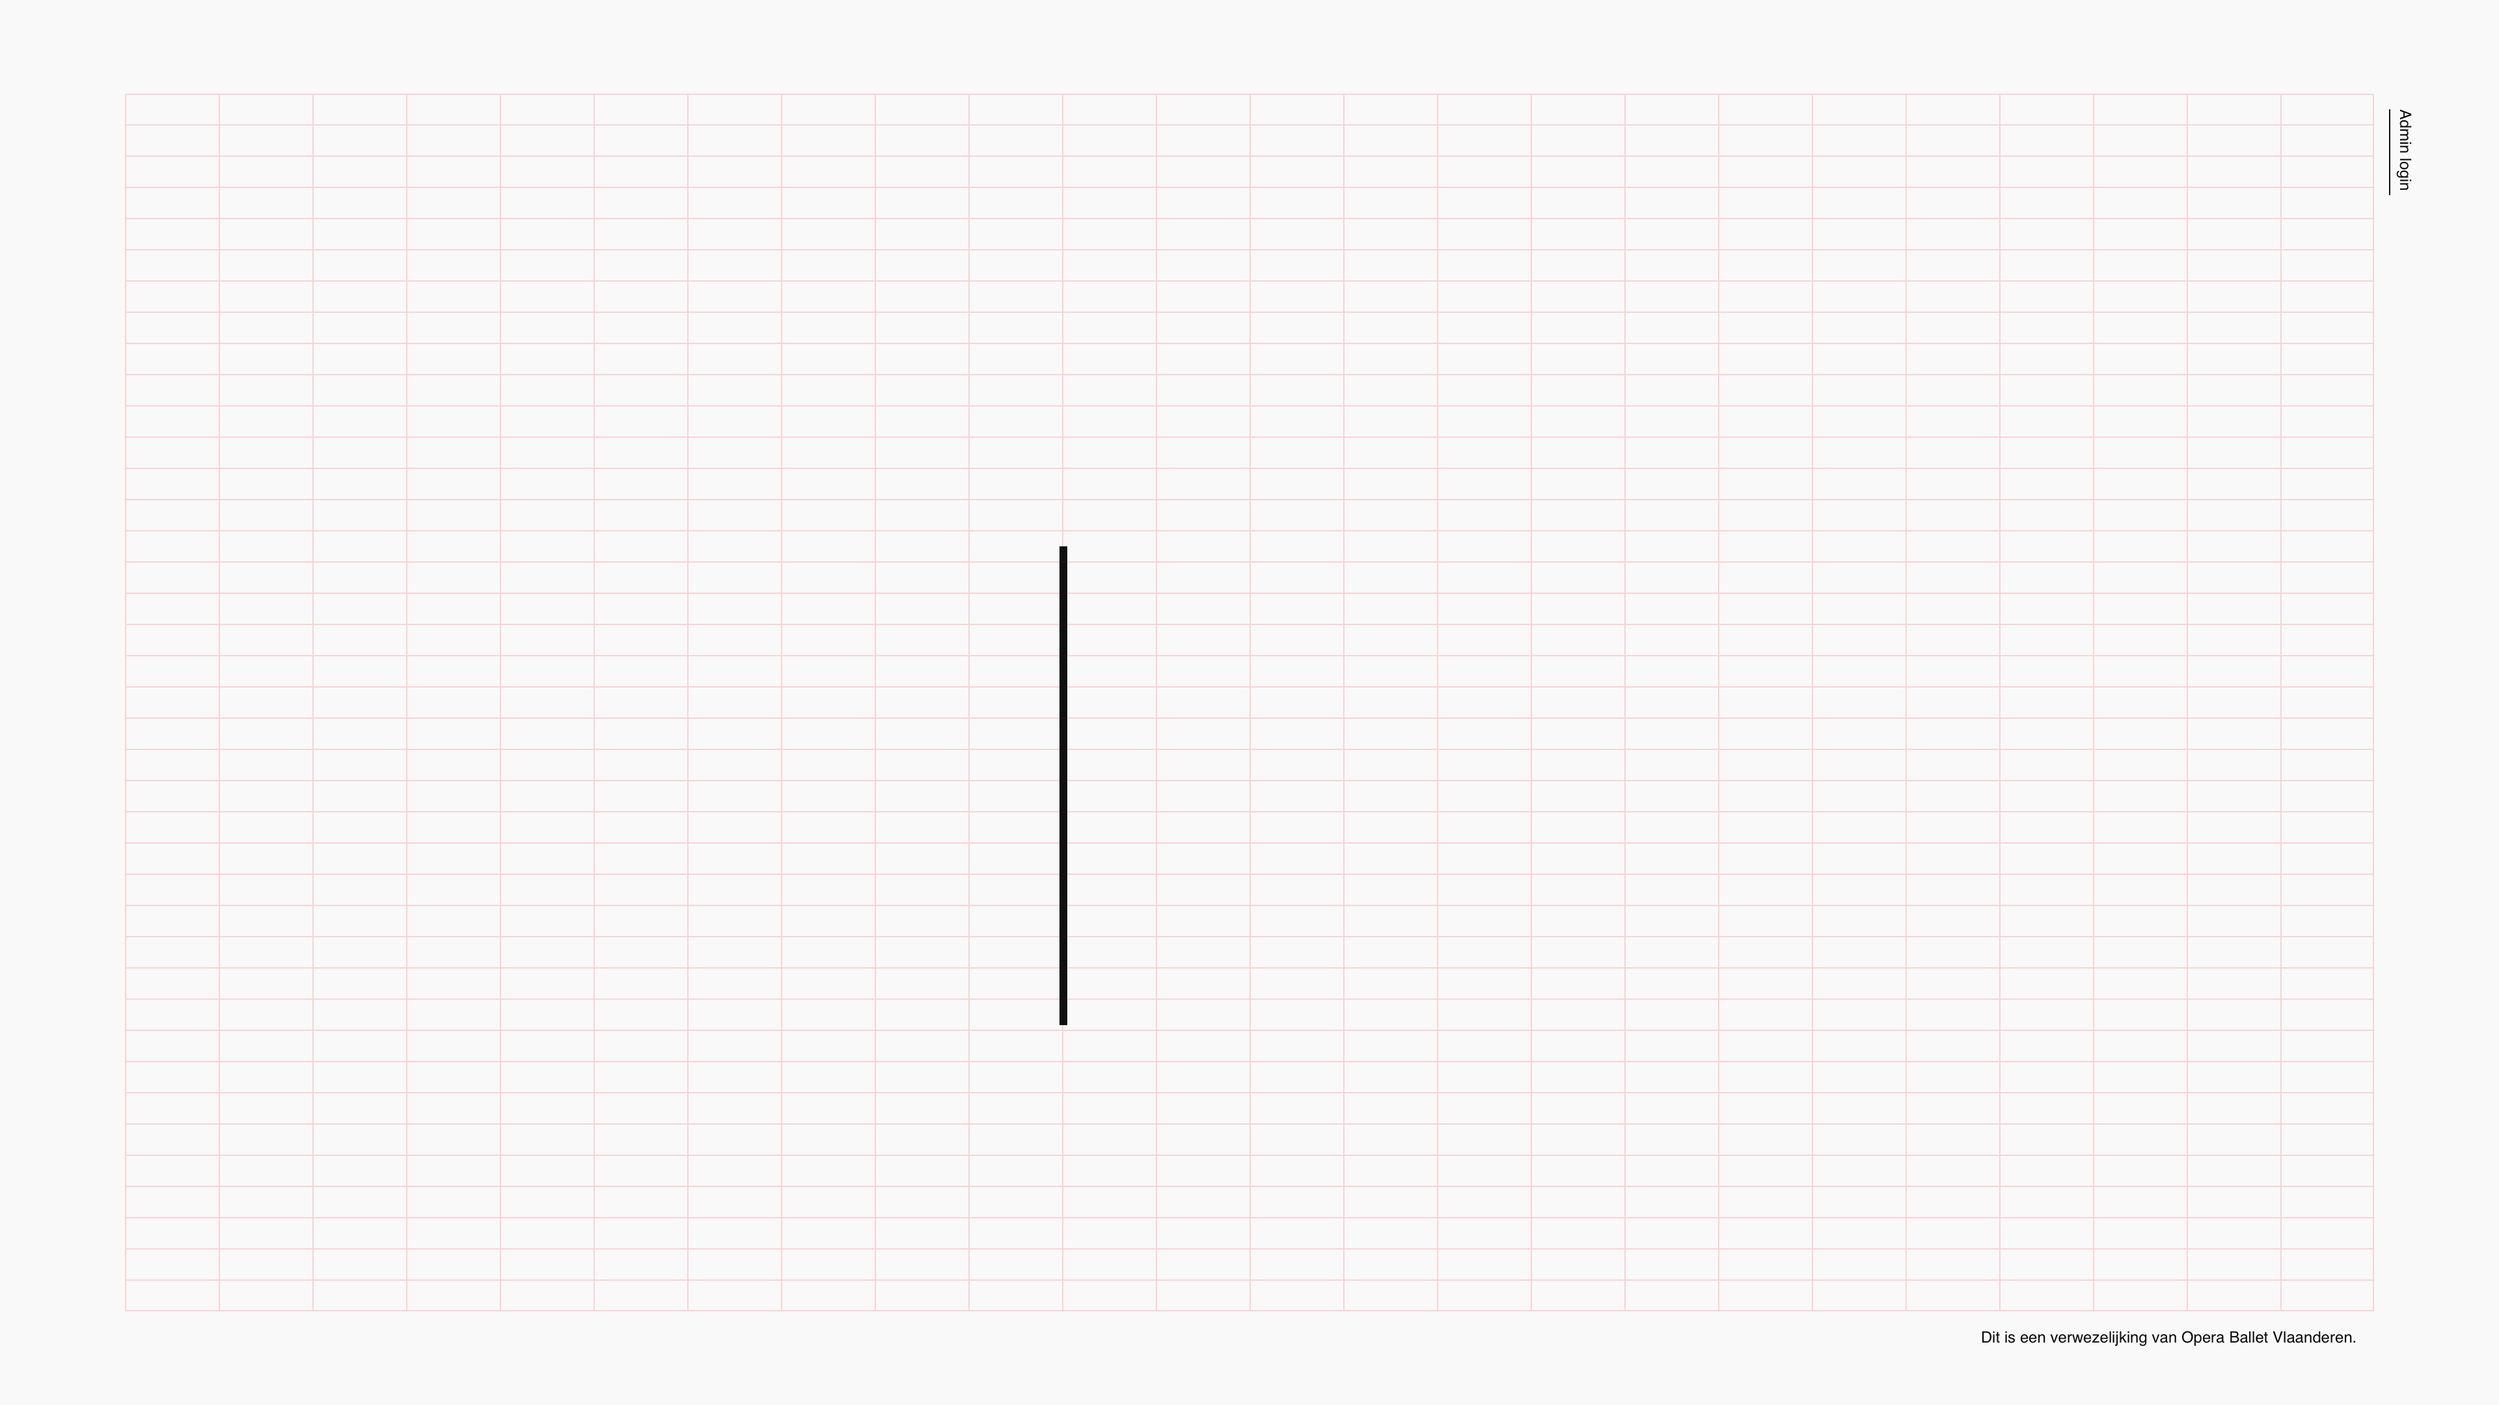
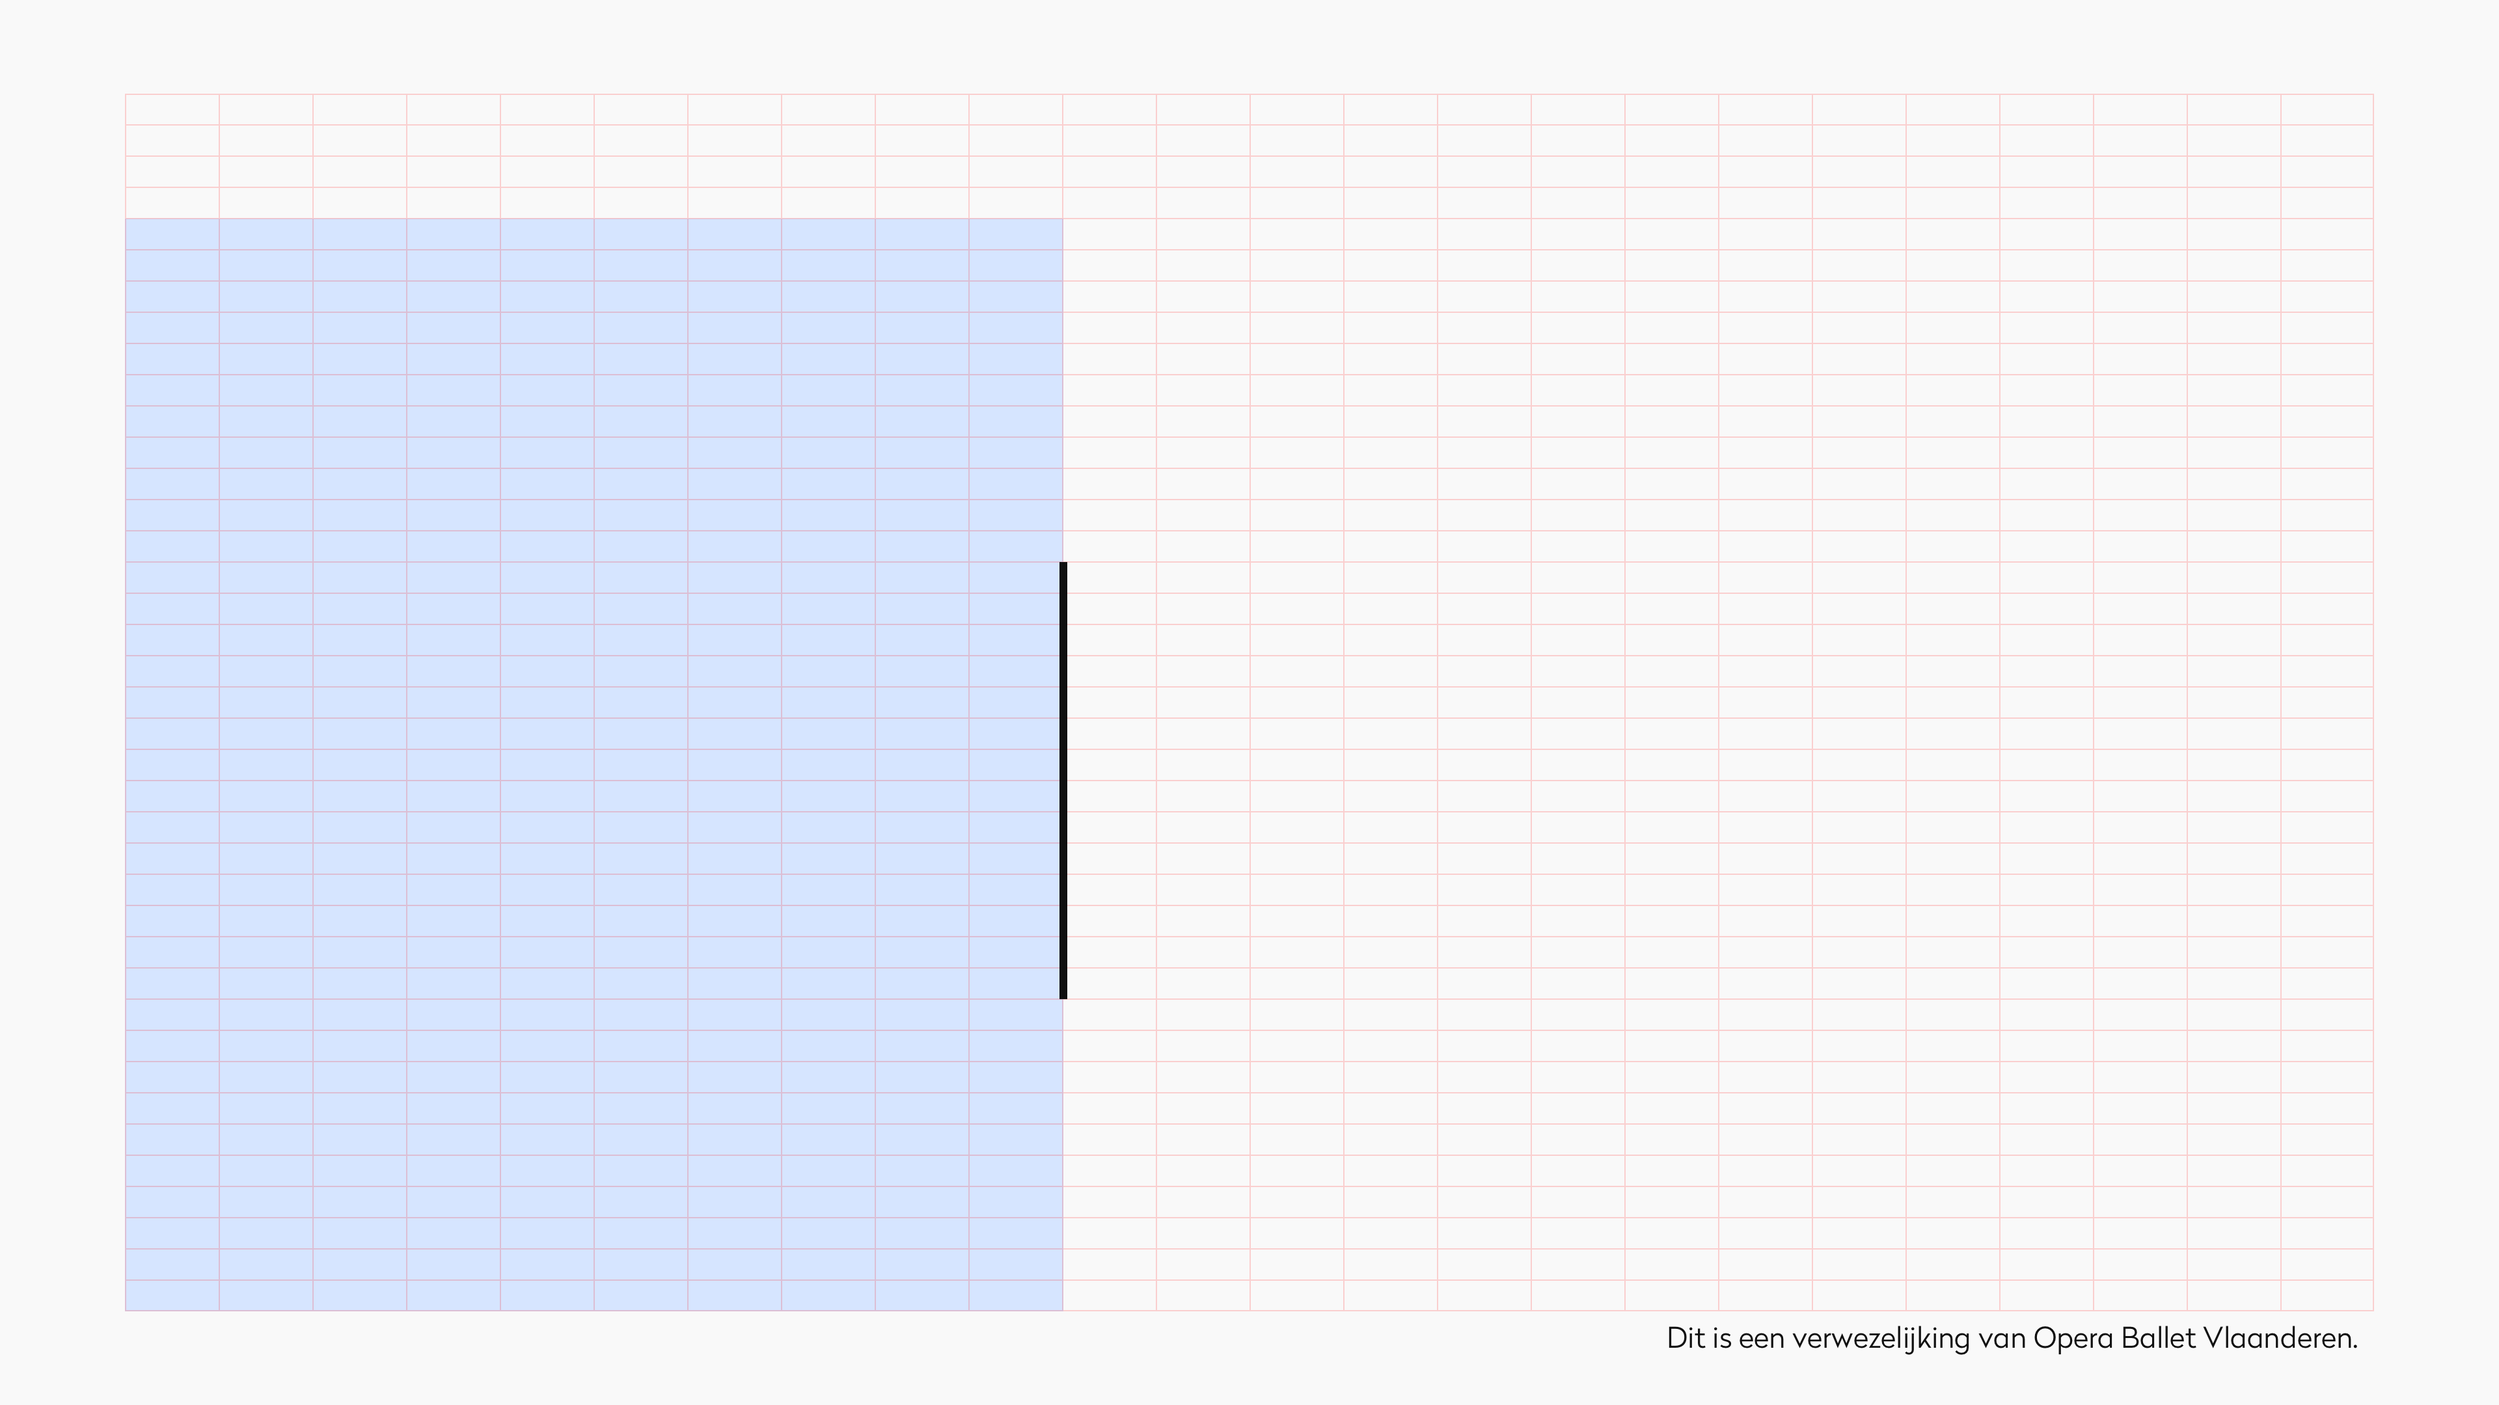
questions three

Changed region(s): [[0.0312, 0.1551, 0.4375, 0.9306], [0.6875, 0.9306, 0.9375, 0.9616]]

diff --git a/client/src/three/Questions.js b/client/src/three/Questions.js
@@ -1,5 +1,5 @@
 import * as THREE from "three";
-import { BACKGROUND_COLORS, FONTS, WORLD_POSITION } from "../constants";
+import { BACKGROUND_COLORS, FONTS, WORLD_POSITION, ROUTES } from "../constants";
 import Canary from "./Canary";
 
 class Questions {
@@ -7,12 +7,12 @@ class Questions {
   questions = [];
   answers = [];
   loaded = false;
+  questionIndex = 0;
 
   load = that => {
     this.elements = [];
     this.that = that;
     that.movementFreedom = 100;
-    this.that.cameraRubberBandingActive = true;
 
     this.that.questionStore.findAll().then(questions => {
       this.questions = questions;
@@ -48,11 +48,11 @@ class Questions {
     this.submit.style.position = `relative`;
 
     this.canary.createPng(that, `assets/img/ontdek_wie_jij_bent.png`, -30, 60, WORLD_POSITION.questions - 300, 836 / 5.2, 241 / 4, 16);
-    this.canary.createPng(that, `assets/img/ontdek_wie_jij_bent_blauwe_rechthoek.png`, -130, -10, WORLD_POSITION.questions - 390, 721 / 4.1, 840 / 3.7, 16);
+    this.canary.createPng(that, `assets/img/admin_login.png`, 230, 110, WORLD_POSITION.questions - 390, 40 / 4.1, 122 / 3.7, 16, `admin`);
     this.canary.createPng(that, `assets/img/logo.png`, -18, -57, WORLD_POSITION.questions - 250, 440 / 5.2, 194 / 5.2, 16);
-    this.canary.createPng(that, `assets/img/ontdek_wie_jij_bent_intro_1.png`, -102, -19, WORLD_POSITION.questions - 330, 576 / 5.1, 119 / 6, 16);
-    this.canary.createPng(that, `assets/img/ontdek_wie_jij_bent_intro_2.png`, 42, 16, WORLD_POSITION.questions - 330, 576 / 5.1, 62 / 6, 16);
-    this.canary.createPng(that, `assets/img/pikachu.jpg`, 124, -50, WORLD_POSITION.questions - 330, 576 / 6, 576 / 6, 16);
+    this.canary.createPng(that, `assets/img/ontdek_wie_jij_bent_intro_1.png`, -103, -19, WORLD_POSITION.questions - 330, 576 / 5.1, 119 / 6, 16);
+    this.canary.createPng(that, `assets/img/ontdek_wie_jij_bent_intro_2.png`, 50, 12, WORLD_POSITION.questions - 330, 664 / 5.1, 78 / 6, 16);
+    this.canary.createPng(that, `assets/img/rectangle.png`, 123, -54, WORLD_POSITION.questions - 330, 440 / 4.6, 387 / 4.6, 16);
     this.canary.createPng(that, `assets/img/ontdek_wie_jij_bent_button.png`, -19, -65, WORLD_POSITION.questions - 300, 90, 18, 16, `start`);
     this.canary.createPng(that, `assets/img/a_START-1.png`, 0, 0, WORLD_POSITION.questions - 400, 500, 300, 16);
     //this.canary.createText(that, FONTS.helvetacaLight, 0xff6690, `Pikachu`, 0, 30, WORLD_POSITION.questions - 300, 50);
@@ -69,95 +69,48 @@ class Questions {
     this.questions.forEach((question, index) => {
       this.canary.createPng(
         this.that,
-        `assets/img/ontdek_wie_jij_bent.png`,
+        `assets/img/vraag.png`,
         question.location.x - 30,
         question.location.y + 60,
-        WORLD_POSITION.questions - 300 - question.location.z,
+        WORLD_POSITION.questions - question.location.z - 300,
         836 / 5.2,
         241 / 4,
         16
       );
       this.canary.createPng(
         this.that,
-        `assets/img/ontdek_wie_jij_bent_blauwe_rechthoek.png`,
+        `assets/img/terug_naar_begin.png`,
         question.location.x - 130,
         question.location.y - 10,
-        WORLD_POSITION.questions - 390 - question.location.z,
-        721 / 4.1,
-        840 / 3.7,
-        16
-      );
-      this.canary.createPng(
-        this.that,
-        `assets/img/logo.png`,
-        -18 - question.location.x,
-        -57 - question.location.y,
-        WORLD_POSITION.questions - 250 - question.location.z,
-        440 / 5.2,
-        194 / 5.2,
-        16
-      );
-      this.canary.createPng(
-        this.that,
-        `assets/img/ontdek_wie_jij_bent_intro_1.png`,
-        -102 - question.location.x,
-        -19 - question.location.y,
-        WORLD_POSITION.questions - 330 - question.location.z,
-        576 / 5.1,
-        119 / 6,
-        16
-      );
-      this.canary.createPng(
-        this.that,
-        `assets/img/ontdek_wie_jij_bent_intro_2.png`,
-        42 - question.location.x,
-        16 - question.location.y,
-        WORLD_POSITION.questions - 330 - question.location.z,
-        576 / 5.1,
-        62 / 6,
-        16
-      );
-      this.canary.createPng(
-        this.that,
-        `assets/img/pikachu.jpg`,
-        124 - question.location.x,
-        -50 - question.location.y,
-        WORLD_POSITION.questions - 330 - question.location.z,
-        576 / 6,
-        576 / 6,
-        16
-      );
-      this.canary.createPng(
-        this.that,
-        `assets/img/ontdek_wie_jij_bent_button.png`,
-        -19 - question.location.x,
-        -65 - question.location.y,
-        WORLD_POSITION.questions - 300 - question.location.z,
-        90,
-        18,
+        WORLD_POSITION.questions - question.location.z - 390,
+        242 / 4.1,
+        39 / 3.7,
         16,
-        `start`
+        `terug`
       );
       this.canary.createPng(
         this.that,
-        `assets/img/a_START-1.png`,
-        0 - question.location.x,
-        0 - question.location.y,
-        WORLD_POSITION.questions - 400 - question.location.z,
+        `assets/img/b_VRAGEN-1.png`,
+        question.location.x + 0,
+        question.location.y + 0,
+        WORLD_POSITION.questions - question.location.z - 400,
         500,
         300,
         16
       );
-      this.canary.createText(
-        this.that,
-        FONTS.helvetacaLight,
-        0xff6690,
-        question.question,
-        0 - question.location.x,
-        30 - question.location.y,
-        WORLD_POSITION.questions - 300 - question.location.z,
-        50
-      );
+      question.answers.forEach((answer, index2) => {
+        this.canary.createPng(
+          this.that,
+          `assets/img/ontdek_wie_jij_bent_button.png`,
+          question.location.x - 19 + index2 * 100,
+          question.location.y - 65,
+          WORLD_POSITION.questions - question.location.z - 300,
+          90,
+          18,
+          16,
+          `${index}answer${index2}`
+        );
+      });
     });
   };
 
@@ -179,32 +132,56 @@ class Questions {
           this.that.cameraRubberBanding.position.set(
             this.questions[0].location.x,
             this.questions[0].location.y,
-            WORLD_POSITION.questions - this.questions[0].location.z + 600
+            WORLD_POSITION.questions - this.questions[0].location.z
           );
+        }
+        if (intersect.object.name === `admin`) {
+          this.that.history.push(ROUTES.loginAdmin);
         }
       });
       this.questions.forEach((question, index) => {
         if (this.questionIndex === index) {
-          question.answers.forEach((answer, index) => {
-            if (intersects[0].object.name === `answer${index}`) {
-              this.that.cameraRubberBanding.position.set(
-                this.questions[index + 1].location.x,
-                this.questions[index + 1].location.y,
-                WORLD_POSITION.questions - this.questions[index + 1].location.z
-              );
-              const data = {
-                question: question,
-                answer: answer,
-                userId: this.that.uiStore.randomUser._id,
-                param1: 34,
-                param2: 50,
-                param3: 45,
-                param4: 12,
-                param5: 43
-              };
-              this.answers.push(data);
-              this.questionIndex += 1;
-            }
+          question.answers.forEach((answer, index2) => {
+            intersects.forEach(intersect => {
+              if (intersect.object.name === `${index}answer${index2}`) {
+                if (this.questions[index + 1]) {
+                  this.that.cameraRubberBanding.position.set(
+                    this.questions[index + 1].location.x,
+                    this.questions[index + 1].location.y,
+                    WORLD_POSITION.questions - this.questions[index + 1].location.z
+                  );
+                  const data = {
+                    question: question.question,
+                    answer: answer,
+                    userId: this.that.uiStore.randomUser._id,
+                    param1: 34,
+                    param2: 50,
+                    param3: 45,
+                    param4: 12,
+                    param5: 43
+                  };
+                  this.answers.push(data);
+                  this.questionIndex += 1;
+                } else {
+                  const data = {
+                    question: question.question,
+                    answer: answer,
+                    userId: this.that.uiStore.randomUser._id,
+                    param1: 34,
+                    param2: 50,
+                    param3: 45,
+                    param4: 12,
+                    param5: 43
+                  };
+                  this.answers.push(data);
+                  this.questionIndex = 0;
+                  this.answers.forEach(async answer => {
+                    await this.that.answerStore.create(answer);
+                  });
+                  this.that.cameraRubberBanding.position.set(0, 0, WORLD_POSITION.questions);
+                }
+              }
+            });
           });
         }
       });

diff --git a/client/src/containers/user/ThreeScene.module.css b/client/src/containers/user/ThreeScene.module.css
@@ -12,11 +12,18 @@
   justify-content: center;
 }
 
-.loading p {
+.containerPercent {
+  width: 80px;
+  display: flex;
+  justify-content: center;
+  align-items: center;
+  transform: translate(-32px, 10px);
+}
+
+.containerPercent p {
   font-size: 4em;
   color: #333;
   font-weight: 400;
-  transform: translate(-30px, 16px);
 }
 
 .question_input {
@@ -31,7 +38,7 @@
   width: 80px;
   height: 80px;
   position: relative;
-  transform: translate(-4px, -21px);
+  transform: translate(12px, -30px);
 }
 
 .cube1, .cube2 {
@@ -52,9 +59,9 @@
 }
 
 @-webkit-keyframes sk-cubemove {
-  25% { -webkit-transform: translateX(42px) rotate(-90deg) scale(0.5) }
-  50% { -webkit-transform: translateX(42px) translateY(42px) rotate(-180deg) }
-  75% { -webkit-transform: translateX(0px) translateY(42px) rotate(-270deg) scale(0.5) }
+  25% { -webkit-transform: translateX(126px) rotate(-90deg) scale(0.5) }
+  50% { -webkit-transform: translateX(126px) translateY(126px) rotate(-180deg) }
+  75% { -webkit-transform: translateX(0px) translateY(126px) rotate(-270deg) scale(0.5) }
   100% { -webkit-transform: rotate(-360deg) }
 }
 

diff --git a/client/src/components/admin/auth/LoginForm.jsx b/client/src/components/admin/auth/LoginForm.jsx
@@ -2,6 +2,7 @@ import React from "react";
 import { inject, observer, PropTypes } from "mobx-react";
 import { withRouter } from "react-router-dom";
 import { ROUTES } from "../../../constants";
+import { Link } from "react-router-dom";
 import styles from "./LoginForm.module.css";
 
 const LoginForm = ({ uiStore, history }) => {
@@ -47,9 +48,16 @@ const LoginForm = ({ uiStore, history }) => {
               </label>
               <p className={styles.error}>{uiStore.error}</p>
             </div>
-            <button type="submit" className={`${styles.button}`}>
-              <p>Inloggen</p>
-            </button>
+            <div className={styles.containerButtons}>
+              <button type="submit" className={`${styles.button}`}>
+                <p>Inloggen</p>
+              </button>
+              <Link to={ROUTES.threeScene}>
+                <button className={styles.button}>
+                  <p>Naar de site</p>
+                </button>
+              </Link>
+            </div>
           </div>
         </div>
       </form>

diff --git a/client/src/containers/user/ThreeScene.jsx b/client/src/containers/user/ThreeScene.jsx
@@ -22,6 +22,7 @@ class ThreeScene extends Component {
     this.answerStore = props.answerStore;
     this.characterStore = props.characterStore;
     this.questionStore = props.questionStore;
+    this.history = props.history;
     this.state = { loading: ``, error: ``, done: false };
   }
 
@@ -188,7 +189,9 @@ class ThreeScene extends Component {
               <div className={styles.cube1} />
               <div className={styles.cube2} />
             </div>
-            <p>{this.state.loading}</p>
+            <div className={styles.containerPercent}>
+              <p>{this.state.loading}</p>
+            </div>
           </div>
         ) : (
           <></>

diff --git a/client/src/components/admin/auth/LoginForm.module.css b/client/src/components/admin/auth/LoginForm.module.css
@@ -4,7 +4,7 @@
 }
 
 .form_container {
-  height: 32em;
+  height: 38em;
   align-self: center;
   justify-self: center;
   display: flex;
@@ -42,5 +42,12 @@
 
 .error {
   font-size: 1.2em;
-  color: red;
+  color: #ff0000;
+}
+
+.containerButtons {
+  height: 10em;
+  display: flex;
+  flex-flow: column;
+  justify-content: space-between;
 }

diff --git a/client/src/containers/admin/auth/Login.jsx b/client/src/containers/admin/auth/Login.jsx
@@ -1,5 +1,4 @@
 import React from "react";
-//import styles from "./Login.module.css";
 import LoginForm from "../../../components/admin/auth/LoginForm";
 
 const Login = () => {

diff --git a/client/src/constants/index.js b/client/src/constants/index.js
@@ -18,8 +18,8 @@ export const FONTS = {
 };
 
 export const FOG = {
-  near: 300,
-  far: 1600
+  near: 400,
+  far: 600
 };
 
 export const CAMERA_RUBBERBANDING_FORCE = 0.04;
